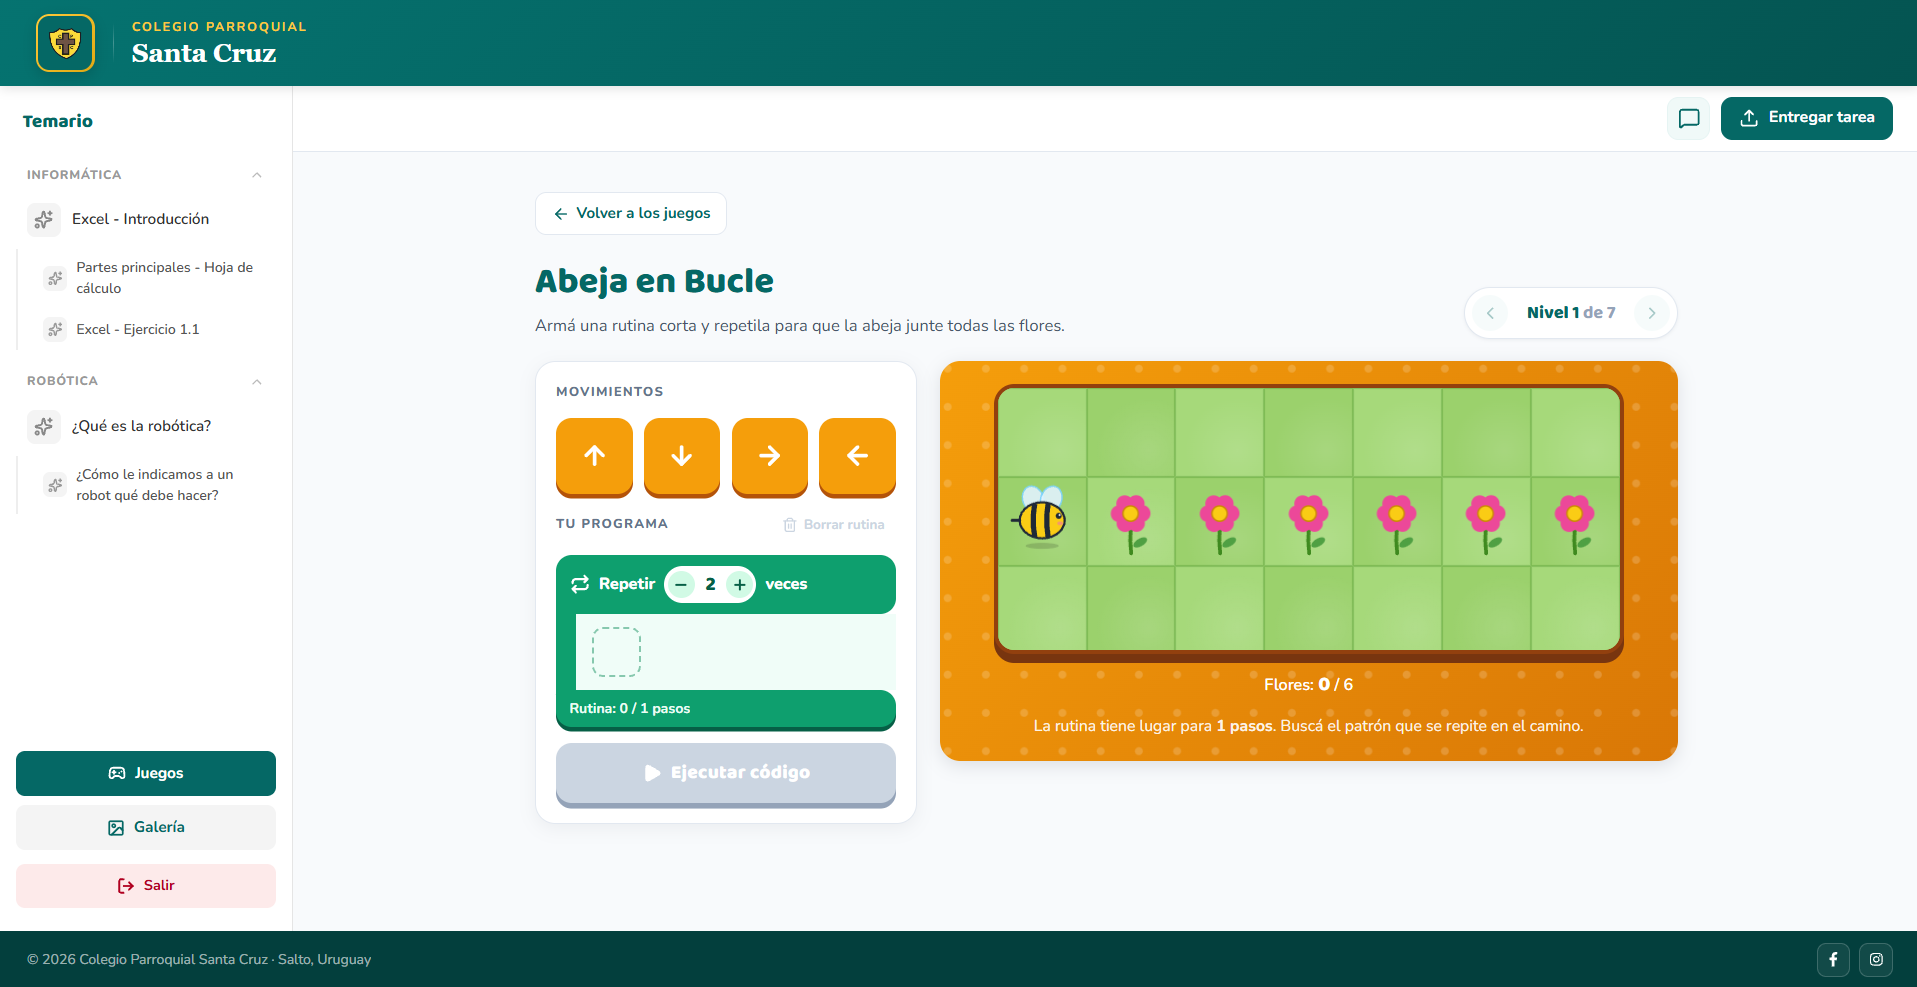
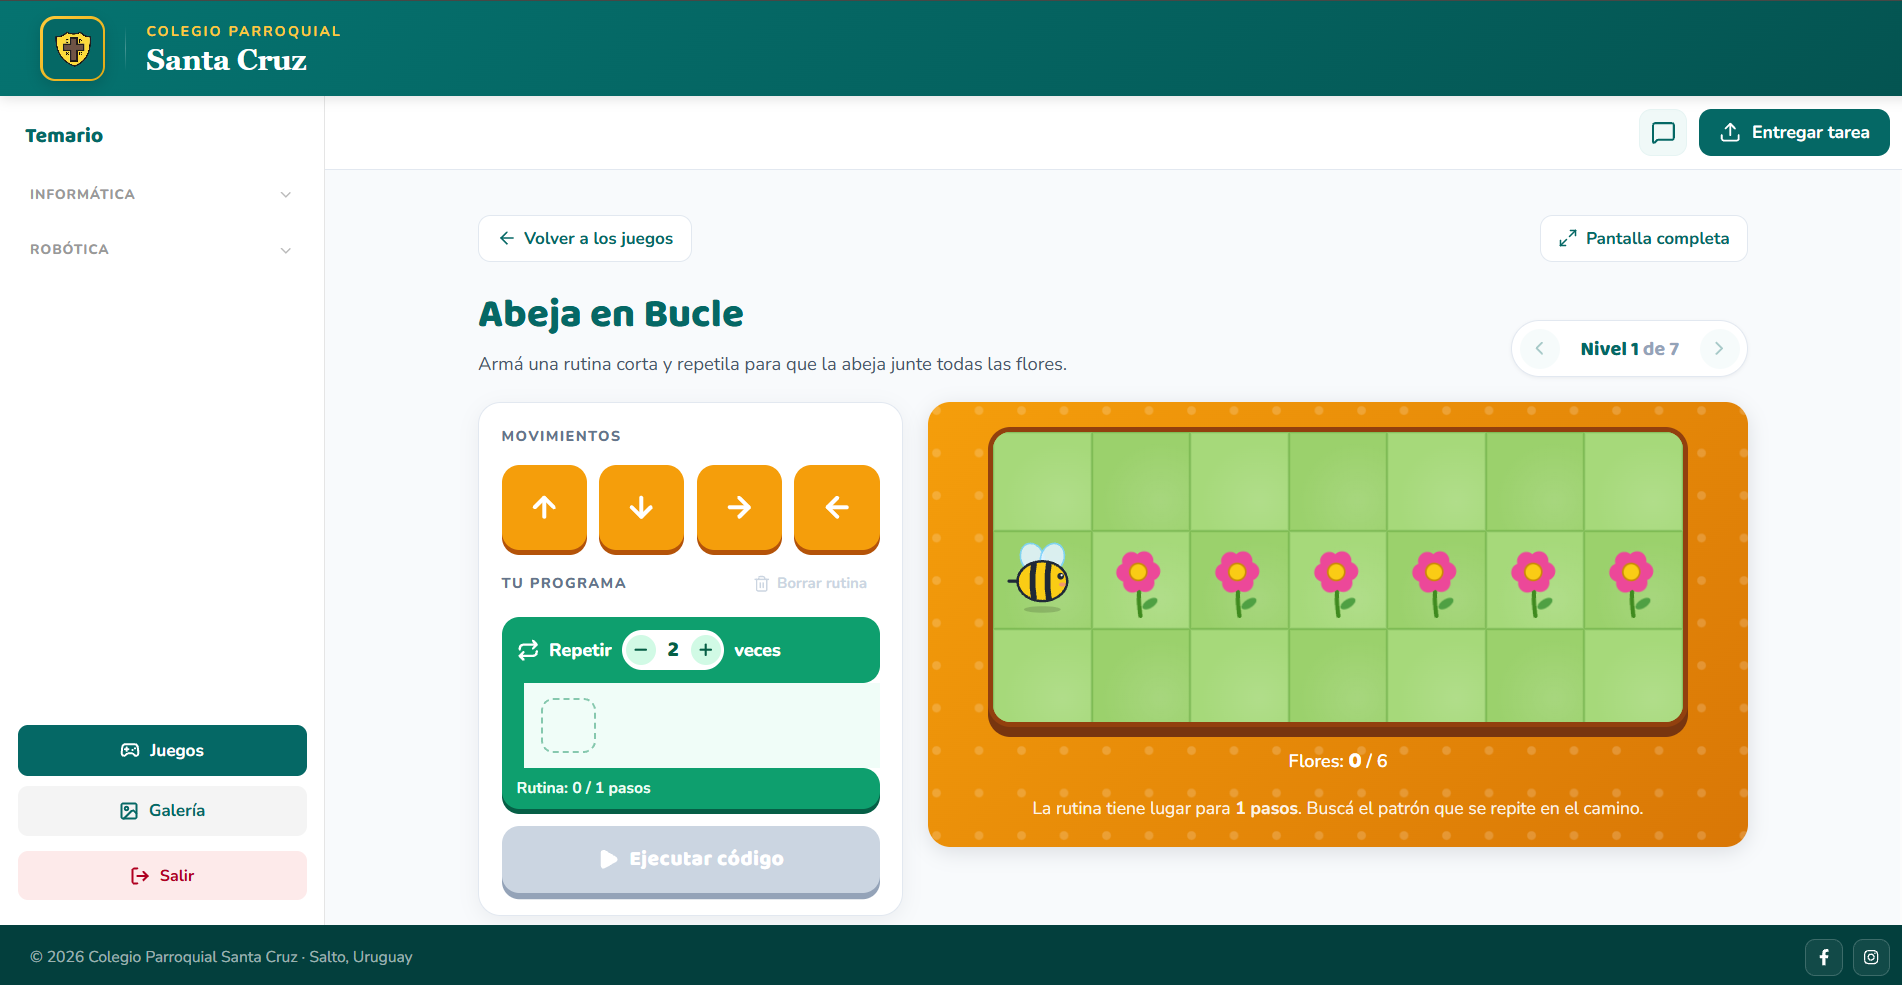
fix: robot3d

diff --git a/data.js b/data.js
@@ -76,7 +76,7 @@ const PROJECTS = [
   {
     date: "2026-08",
     institution: "Colegio Parroquial Santa Cruz",
-    images: ["assets/cpsc1.png", "assets/cpsc2.png"],
+    images: ["assets/cpsc1.png", "assets/cpsc2.png", "assets/cpsc3.png"],
     url: "https://www.colegioparroquialsantacruz.com/",
     es: {
       title: "Plataforma Web para Talleres",
